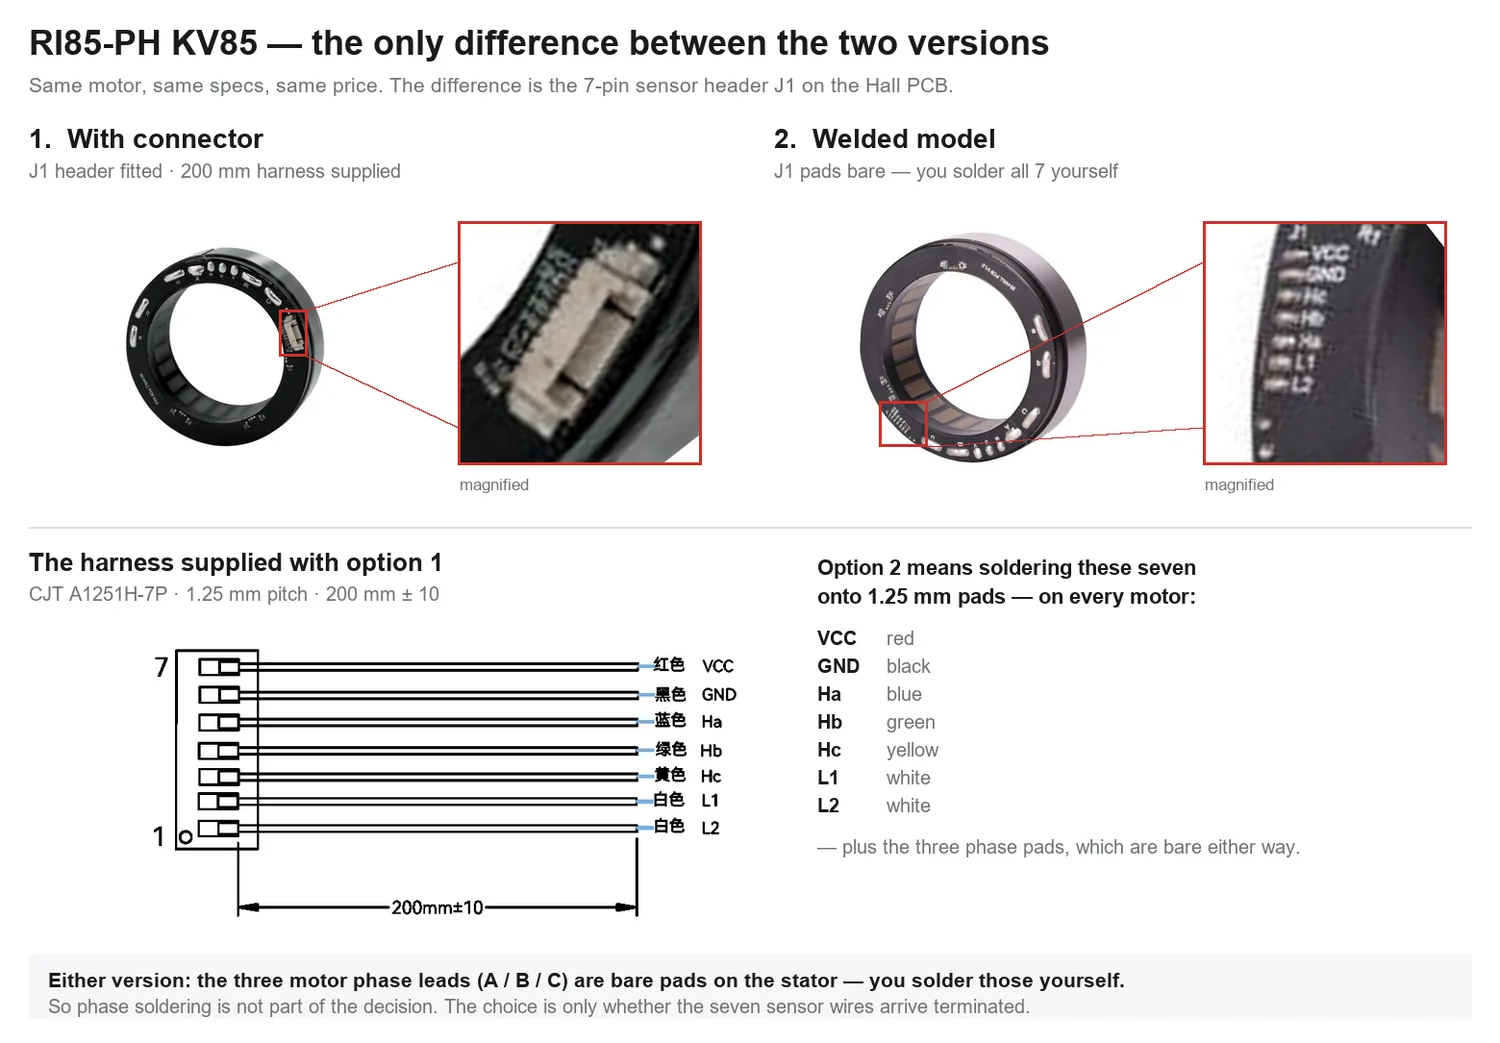
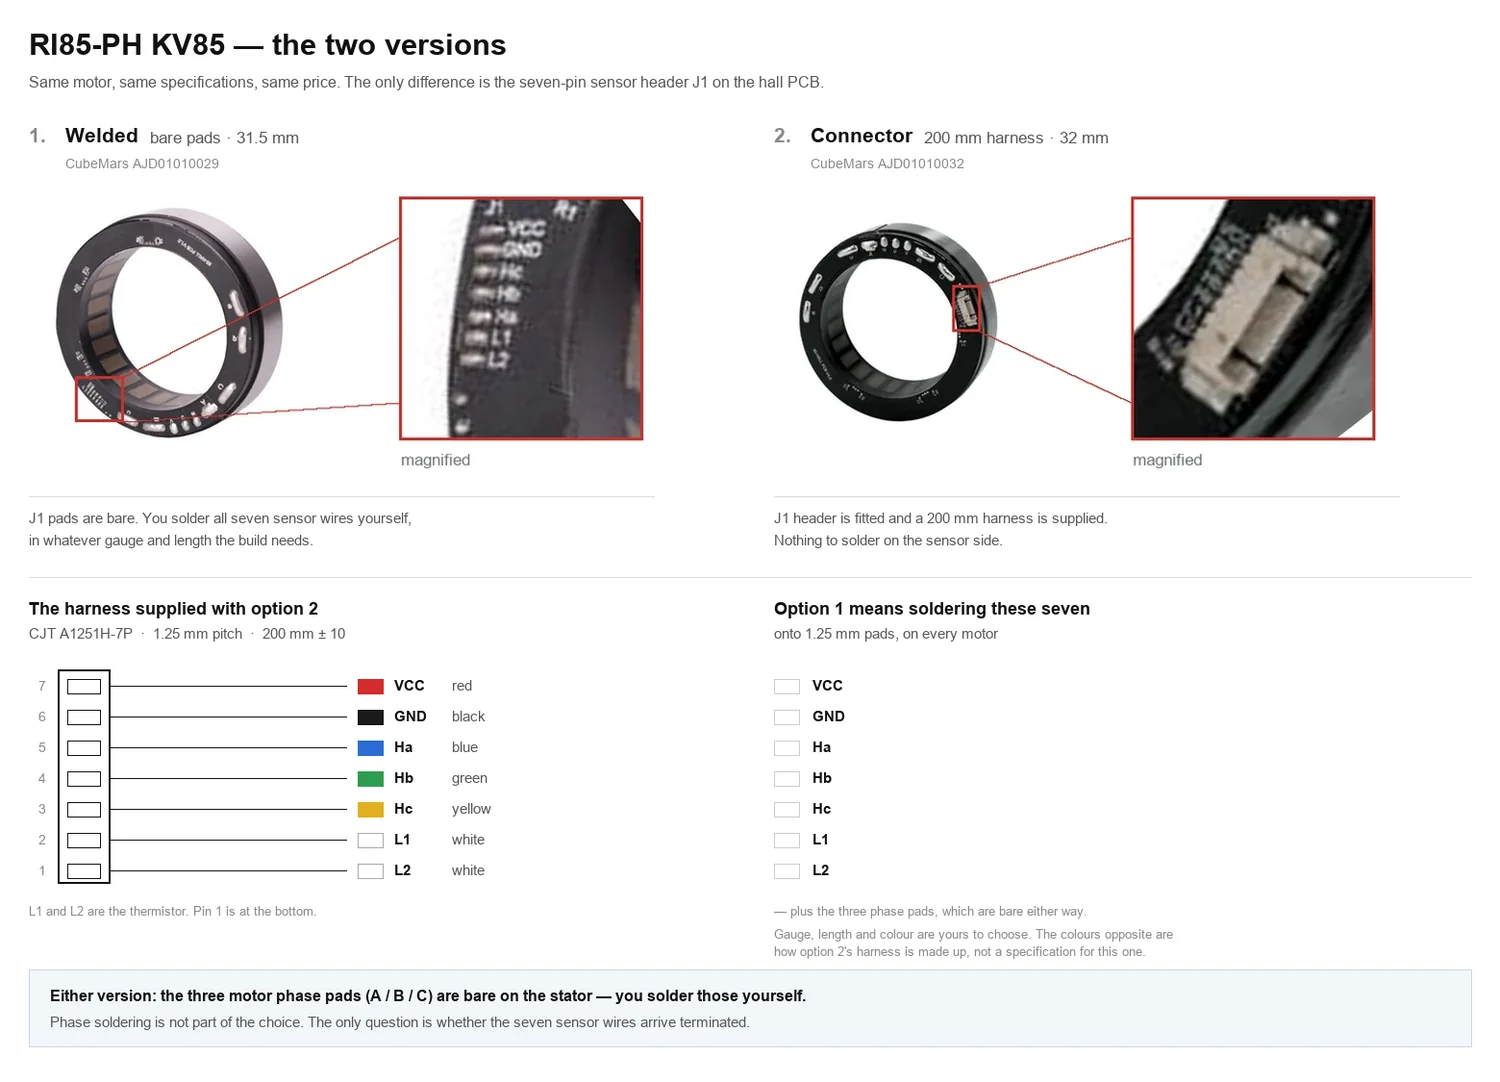
Redraw the comparison figure in the site's own naming, with the part numbers
The figure went up still labelled the way CubeMars labels these - "1. With
connector", "2. Welded model" - which is the naming the site stopped using
one commit later, and in the opposite order to the chips beside it. A
picture that contradicts the page under it is worse than no picture.

It now reads the same as the page: welded first, "bare pads, 31.5 mm"
against "200 mm harness, 32 mm", and each option carries its CubeMars part
number - AJD01010029 and AJD01010032 - so a reader can quote one at the
factory without writing to ask us which is which. Hao asked for the part
numbers; the rest followed from putting them in.

Also corrected a claim the first version made and the reorder made worse.
The seven wire colours were printed under both options. They are a fact
about option 2's harness and nothing else: option 1 ships with no harness
at all, and its whole point is that the gauge, the length and the colour
are the buyer's to choose. The right-hand list now names the seven nets
without colouring them and says so.

Regenerated from marketing/make-ri85-variant-figure.py. The photographs,
their magnified insets and the red callouts are cropped from the first
render, which is the one thing here that cannot be redrawn - and which this
very script destroyed on its second run by reading and writing the same
path. It is recovered from the webp in 03b88ca and frozen as
marketing/ri85-figure-v1-source.png; the script now reads only from that.
[…]

Changed region(s): [[0.0, 0.1227, 0.9813, 0.9818], [0.0307, 0.1227, 0.4907, 0.4909], [0.0, 0.0307, 0.7053, 0.092]]

diff --git a/ri85-ph-kv85-with-connector.html b/ri85-ph-kv85-with-connector.html
@@ -27,7 +27,7 @@
     <img src="assets/img/products-branded/ri85-ph-kv85-1.webp" width="800" height="800" alt="RI85-PH KV85 with connector">
     <p>RI Series. 2 N·m rated, 5 N·m peak, Ф85 mm, 411 g, 48 V.</p>
     <p><strong>US$166.00</strong></p>
-    <p>2 N·m rated and 5 N·m peak from a Ф85 x 32 mm, 411 g frame, on 48 V. 3042 RPM rated and 4080 RPM no-load.</p><p>The seven sensor nets come out on a fitted header and a plug-in harness, so there is nothing to solder on that side. If you would rather run your own sensor wire, buy the welded version — the header sits on those pads. It is 0.5 mm taller than the welded version, 32 mm against 31.5 mm. The three motor phase pads are bare on both versions, so you solder those yourself either way.</p><figure class="variant-figure"><a href="assets/img/ri85-connector-vs-welded.webp" target="_blank" rel="noopener"><img src="assets/img/ri85-connector-vs-welded.webp" alt="RI85-PH KV85 welded model and with-connector model compared: the seven-pin J1 sensor header is fitted on one and left as bare pads on the other, with the 200 mm harness pin-out and wire colours." loading="lazy" width="1500" height="1043"></a><figcaption>The two versions side by side. Open the image to read the pin-out.</figcaption></figure><p>CubeMars introduces the RI-PH series frameless inner-rotor motors, as a brushless DC motor, it's an ideal choice for industrial automation and robotics technology.</p>
+    <p>2 N·m rated and 5 N·m peak from a Ф85 x 32 mm, 411 g frame, on 48 V. 3042 RPM rated and 4080 RPM no-load.</p><p>The seven sensor nets come out on a fitted header and a plug-in harness, so there is nothing to solder on that side. If you would rather run your own sensor wire, buy the welded version — the header sits on those pads. It is 0.5 mm taller than the welded version, 32 mm against 31.5 mm. The three motor phase pads are bare on both versions, so you solder those yourself either way.</p><figure class="variant-figure"><a href="assets/img/ri85-connector-vs-welded.webp" target="_blank" rel="noopener"><img src="assets/img/ri85-connector-vs-welded.webp" alt="RI85-PH KV85, the two versions compared: welded, CubeMars AJD01010029, J1 pads bare, 31.5 mm; and connector, CubeMars AJD01010032, seven-pin J1 header fitted with a 200 mm harness, 32 mm. The harness pin-out is shown below them, and the three motor phase pads are bare on both." loading="lazy" width="1500" height="1082"></a><figcaption>The two versions side by side. Open the image to read the pin-out.</figcaption></figure><p>CubeMars introduces the RI-PH series frameless inner-rotor motors, as a brushless DC motor, it's an ideal choice for industrial automation and robotics technology.</p>
     <p class="muted" style="font-size:13px">Import duty on US orders is on us. Freight is charged once per order, not per item, and <strong>shipping is free on orders of US$200 or more</strong> &mdash; <a href="shipping-policy.html">see the rates</a>.</p>
     <h2>Sensor leads</h2><ul><li><a href="ri85-ph-kv85.html">RI85-PH KV85 welded leads — US$166.00</a></li></ul>
     <h2>Specifications</h2><table class="spec-table"><tbody><tr><th>Lead Termination</th><td>Connector</td></tr><tr><th>Sensor Harness Connector</th><td>CJT A1251H-7P, 1.25 mm pitch, 7-pin</td></tr><tr><th>Sensor Harness Length (mm)</th><td>200 ±10</td></tr><tr><th>Sensor Pinout</th><td>1 L2, 2 L1, 3 Hc, 4 Hb, 5 Ha, 6 GND, 7 VCC</td></tr><tr><th>Sensor Wire Colours</th><td>VCC red, GND black, Ha blue, Hb green, Hc yellow, L1 and L2 white</td></tr><tr><th>Rated Torque (N·m)</th><td>2</td></tr><tr><th>Rated Voltage (V)</th><td>48</td></tr><tr><th>Rated Speed (RPM)</th><td>3042</td></tr><tr><th>No-Load Speed (RPM)</th><td>4080</td></tr><tr><th>Rated Current (A)</th><td>16</td></tr><tr><th>Phase to Phase Resistance (mΩ)</th><td>138.5</td></tr><tr><th>Phase to Phase Inductance (μH)</th><td>239.4</td></tr><tr><th>OD (mm)</th><td>85</td></tr><tr><th>Weight (g)</th><td>411</td></tr><tr><th>Peak Torque (N·m)</th><td>5</td></tr><tr><th>Peak Current (A)</th><td>44 (Ref)</td></tr><tr><th>Height (mm)</th><td>32</td></tr><tr><th>Inertia (g·cm²)</th><td>652</td></tr><tr><th>Electrical Time Constant (ms)</th><td>0.0017</td></tr><tr><th>Pole Pairs</th><td>14</td></tr></tbody></table>

diff --git a/ri85-ph-kv85.html b/ri85-ph-kv85.html
@@ -27,7 +27,7 @@
     <img src="assets/img/products-branded/ri85-ph-kv85-1.webp" width="800" height="800" alt="RI85-PH KV85 welded leads">
     <p>RI Series. 2 N·m rated, 5 N·m peak, Ф85 mm, 411 g, 48 V.</p>
     <p><strong>US$166.00</strong></p>
-    <p>2 N·m rated and 5 N·m peak from a Ф85 x 31.5 mm, 411 g frame, on 48 V. 3042 RPM rated and 4080 RPM no-load.</p><p>The seven sensor nets end in bare pads on the board, so you run your own wire in whatever gauge and length the build needs. It is 0.5 mm shorter than the connector version, 31.5 mm against 32 mm. The three motor phase pads are bare on both versions, so you solder those yourself either way.</p><figure class="variant-figure"><a href="assets/img/ri85-connector-vs-welded.webp" target="_blank" rel="noopener"><img src="assets/img/ri85-connector-vs-welded.webp" alt="RI85-PH KV85 welded model and with-connector model compared: the seven-pin J1 sensor header is fitted on one and left as bare pads on the other, with the 200 mm harness pin-out and wire colours." loading="lazy" width="1500" height="1043"></a><figcaption>The two versions side by side. Open the image to read the pin-out.</figcaption></figure><p>CubeMars introduces the RI-PH series frameless inner-rotor motors, as a brushless DC motor, it's an ideal choice for industrial automation and robotics technology.</p>
+    <p>2 N·m rated and 5 N·m peak from a Ф85 x 31.5 mm, 411 g frame, on 48 V. 3042 RPM rated and 4080 RPM no-load.</p><p>The seven sensor nets end in bare pads on the board, so you run your own wire in whatever gauge and length the build needs. It is 0.5 mm shorter than the connector version, 31.5 mm against 32 mm. The three motor phase pads are bare on both versions, so you solder those yourself either way.</p><figure class="variant-figure"><a href="assets/img/ri85-connector-vs-welded.webp" target="_blank" rel="noopener"><img src="assets/img/ri85-connector-vs-welded.webp" alt="RI85-PH KV85, the two versions compared: welded, CubeMars AJD01010029, J1 pads bare, 31.5 mm; and connector, CubeMars AJD01010032, seven-pin J1 header fitted with a 200 mm harness, 32 mm. The harness pin-out is shown below them, and the three motor phase pads are bare on both." loading="lazy" width="1500" height="1082"></a><figcaption>The two versions side by side. Open the image to read the pin-out.</figcaption></figure><p>CubeMars introduces the RI-PH series frameless inner-rotor motors, as a brushless DC motor, it's an ideal choice for industrial automation and robotics technology.</p>
     <p class="muted" style="font-size:13px">Import duty on US orders is on us. Freight is charged once per order, not per item, and <strong>shipping is free on orders of US$200 or more</strong> &mdash; <a href="shipping-policy.html">see the rates</a>.</p>
     <h2>Sensor leads</h2><ul><li><a href="ri85-ph-kv85-with-connector.html">RI85-PH KV85 with connector — US$166.00</a></li></ul>
     <h2>Specifications</h2><table class="spec-table"><tbody><tr><th>Lead Termination</th><td>Welded</td></tr><tr><th>Rated Torque (N·m)</th><td>2</td></tr><tr><th>Rated Voltage (V)</th><td>48</td></tr><tr><th>Rated Speed (RPM)</th><td>3042</td></tr><tr><th>No-Load Speed (RPM)</th><td>4080</td></tr><tr><th>Rated Current (A)</th><td>16</td></tr><tr><th>Phase to Phase Resistance (mΩ)</th><td>138.5</td></tr><tr><th>Phase to Phase Inductance (μH)</th><td>239.4</td></tr><tr><th>OD (mm)</th><td>85</td></tr><tr><th>Weight (g)</th><td>411</td></tr><tr><th>Peak Torque (N·m)</th><td>5</td></tr><tr><th>Peak Current (A)</th><td>44 (Ref)</td></tr><tr><th>Height (mm)</th><td>31.5</td></tr><tr><th>Inertia (g·cm²)</th><td>652</td></tr><tr><th>Electrical Time Constant (ms)</th><td>0.0017</td></tr><tr><th>Pole Pairs</th><td>14</td></tr></tbody></table>

diff --git a/assets/js/app.js b/assets/js/app.js
@@ -1298,8 +1298,8 @@
       (p.variantFigure
         ? '<figure class="variant-figure">' +
             '<a href="assets/img/' + esc(p.variantFigure) + '" target="_blank" rel="noopener">' +
-            '<img src="assets/img/' + esc(p.variantFigure) + '" alt="' + esc('RI85-PH KV85 welded model and with-connector model compared: the seven-pin J1 sensor header is fitted on one and left as bare pads on the other, with the 200 mm harness pin-out and wire colours.') +
-            '" loading="lazy" width="1500" height="1043"></a>' +
+            '<img src="assets/img/' + esc(p.variantFigure) + '" alt="' + esc('RI85-PH KV85, the two versions compared: welded, CubeMars AJD01010029, J1 pads bare, 31.5 mm; and connector, CubeMars AJD01010032, seven-pin J1 header fitted with a 200 mm harness, 32 mm. The harness pin-out is shown below them, and the three motor phase pads are bare on both.') +
+            '" loading="lazy" width="1500" height="1082"></a>' +
             "<figcaption>" + esc('The two versions side by side. Open the image to read the pin-out.') + "</figcaption></figure>"
         : "");
   }

diff --git a/tools/build-static.py b/tools/build-static.py
@@ -971,7 +971,7 @@ def integrated_ids(src):
     return ids
 
 
-ALT = 'RI85-PH KV85 welded model and with-connector model compared: the seven-pin J1 sensor header is fitted on one and left as bare pads on the other, with the 200 mm harness pin-out and wire colours.'
+ALT = 'RI85-PH KV85, the two versions compared: welded, CubeMars AJD01010029, J1 pads bare, 31.5 mm; and connector, CubeMars AJD01010032, seven-pin J1 header fitted with a 200 mm harness, 32 mm. The harness pin-out is shown below them, and the three motor phase pads are bare on both.'
 CAP = 'The two versions side by side. Open the image to read the pin-out.'
 
 
@@ -993,7 +993,7 @@ def variant_figure(p):
     return ('<figure class="variant-figure">'
             '<a href="assets/img/%s" target="_blank" rel="noopener">'
             '<img src="assets/img/%s" alt="%s" loading="lazy" '
-            'width="1500" height="1043"></a>'
+            'width="1500" height="1082"></a>'
             '<figcaption>%s</figcaption></figure>'
             % (esc(f), esc(f), esc(ALT), esc(CAP)))
 
